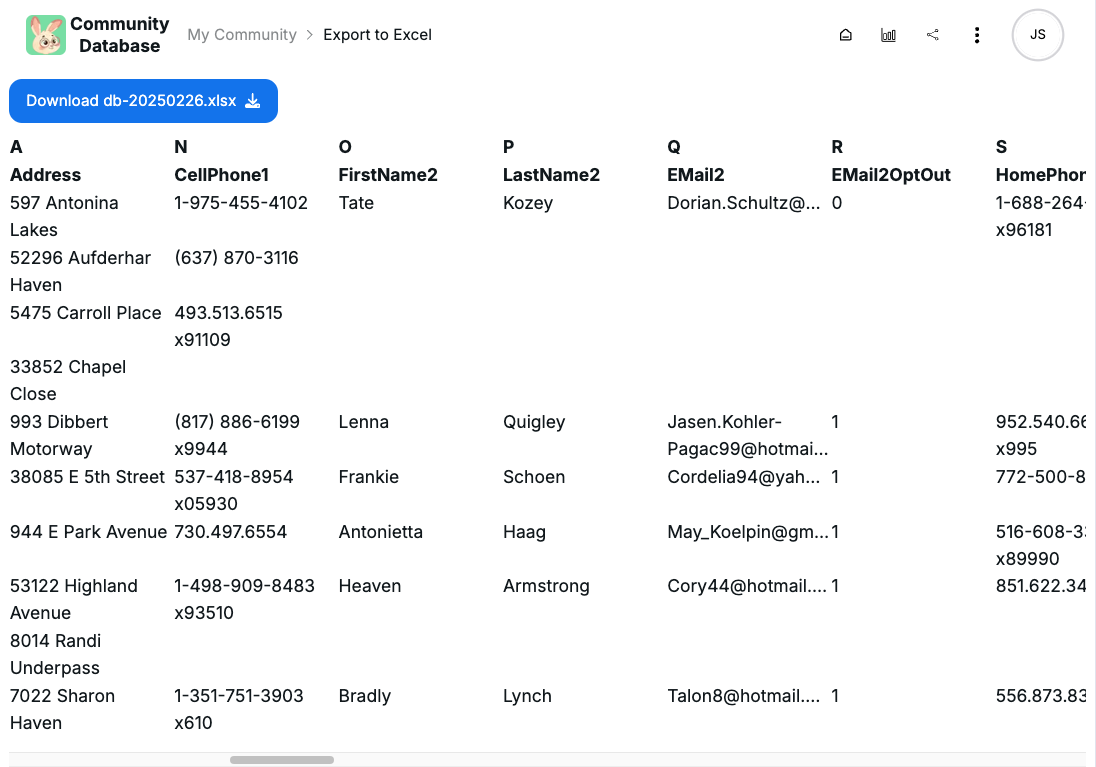
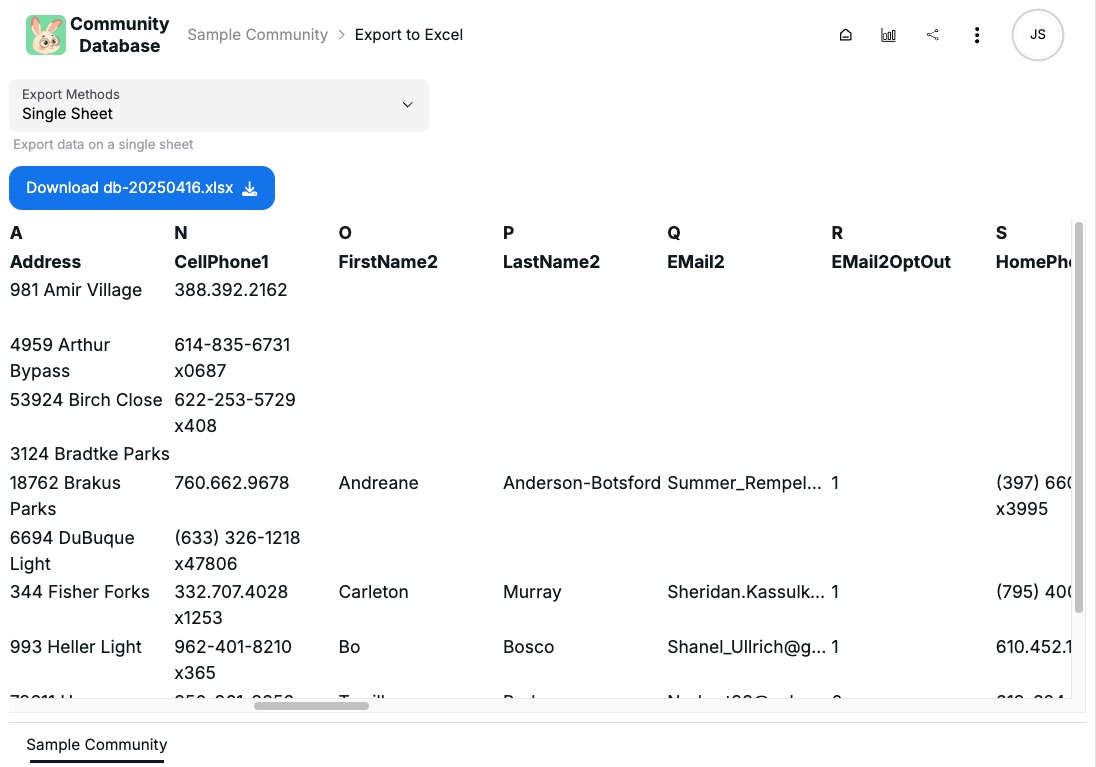
fix: update screenshots

diff --git a/cypress/e2e/landing-screenshot.cy.ts b/cypress/e2e/landing-screenshot.cy.ts
@@ -3,52 +3,15 @@ import path from 'path';
 // Default timeout
 const timeout = 10000;
 
-/** Take screenshot and save them into `/src/app/view/landing/images` directory */
-function takeScreenshot(name: string) {
-  // Wait a bit before taking screenshot, in case there is animation
-  // that needs to be transitioned through
-  // eslint-disable-next-line cypress/no-unnecessary-waiting
-  cy.wait(500);
-  cy.screenshot(name, {
-    overwrite: true,
-    capture: 'viewport',
-    onAfterScreenshot: ($el, props) => {
-      cy.readFile(props.path, 'binary').then((content) => {
-        const imageName = props.path.split('/').pop();
-        if (props.size && imageName) {
-          const destFn = path.join(
-            'src',
-            'app',
-            'view',
-            'landing',
-            'images',
-            imageName
-          );
-          cy.writeFile(destFn, content, 'binary');
-        }
-      });
-    },
-  });
-}
-
-describe('take screenshots for landing screen', () => {
-  before(() => {
-    // Seed data if database doesn't exist
-    // cy.task('mongodb:seed-random', 10);
-  });
-
-  beforeEach(() => {
-    // Determine the dimension of the viewport and screenshot
-    cy.viewport(1000, 700);
-    cy.login();
-  });
-
-  it('takes screenshots', { scrollBehavior: false }, () => {
+class ScreenShot {
+  propertyList() {
     cy.navigatePropertyList();
     cy.findByLabelText('Loading').should('exist');
     cy.findByLabelText('Loading').should('not.exist');
-    takeScreenshot('property-list');
+    this.takeScreenshot('property-list');
+  }
 
+  propertyDetail() {
     cy.findByLabelText('Property Table')
       .find('tbody')
       .findAllByRole('row')
@@ -63,19 +26,26 @@ describe('take screenshots for landing screen', () => {
 
     // Wait for property detail page
     cy.findByLabelText('Membership Info For Year', { timeout });
-    takeScreenshot('property-detail');
+    this.takeScreenshot('property-detail');
+  }
 
+  membershipEditor() {
     cy.clickHeaderMoreMenu();
     cy.clickRoleMenuItem('Edit Membership Detail');
     cy.findByRole('dialog').contains('Membership Detail');
-    takeScreenshot('membership-editor');
+    this.takeScreenshot('membership-editor');
     cy.clickButton('Cancel');
+  }
 
-    // cy.clickButton('Edit Member Details');
-    // cy.findByRole('dialog').contains('Edit Member Details');
-    // takeScreenshot('occupant-editor');
-    // cy.clickButton('Cancel');
+  occupantEditor() {
+    cy.clickHeaderMoreMenu();
+    cy.clickRoleMenuItem('Edit Member Details');
+    cy.findByRole('dialog').contains('Membership Contact Information');
+    this.takeScreenshot('occupant-editor');
+    cy.clickButton('Cancel');
+  }
 
+  dashboard() {
     cy.clickHeaderMoreMenu();
     cy.clickRoleMenuItem('Dashboard');
     // Wait for graphs to be loaded
@@ -84,12 +54,77 @@ describe('take screenshots for landing screen', () => {
       3
     );
     cy.scrollTo(0, 370);
-    takeScreenshot('dashboard');
+    this.takeScreenshot('dashboard');
+  }
 
+  exportXlsx() {
     cy.clickHeaderMoreMenu();
     cy.clickRoleMenuItem('Export to Excel');
-    cy.findByText('Download', { timeout });
+    // Wait for table to be loaded
+    cy.get('table[data-testid="export-xlsx"]', { timeout }).should('exist');
+    cy.clickButton('Export Methods');
+    cy.findByRole('option', { name: 'Single Sheet' }).click({ force: true });
     cy.get('table').parent().scrollTo(1950, 0);
-    takeScreenshot('export-to-xlsx');
+    this.takeScreenshot('export-to-xlsx');
+  }
+
+  /**
+   * Take screenshot and save them into `/src/app/view/landing/images` directory
+   *
+   * @param name Screenshot file name
+   */
+  private takeScreenshot(name: string) {
+    // Wait a bit before taking screenshot, in case there is animation
+    // that needs to be transitioned through
+    // eslint-disable-next-line cypress/no-unnecessary-waiting
+    cy.wait(500);
+    cy.screenshot(name, {
+      overwrite: true,
+      capture: 'viewport',
+      onAfterScreenshot: ($el, props) => {
+        cy.readFile(props.path, 'binary').then((content) => {
+          const imageName = props.path.split('/').pop();
+          if (props.size && imageName) {
+            const destFn = path.join(
+              'src',
+              'app',
+              'view',
+              'landing',
+              'images',
+              imageName
+            );
+            cy.writeFile(destFn, content, 'binary');
+          }
+        });
+      },
+    });
+  }
+}
+
+const screenShot = new ScreenShot();
+
+describe('take screenshots for landing screen', () => {
+  before(() => {
+    // Seed data if database doesn't exist
+    // cy.task('mongodb:seed-random', 10);
+  });
+
+  beforeEach(() => {
+    // Determine the dimension of the viewport and screenshot
+    cy.viewport(1000, 700);
+    cy.login();
+  });
+
+  it('takes screenshots', { scrollBehavior: false }, () => {
+    screenShot.propertyList();
+
+    screenShot.propertyDetail();
+    // This assumes we are in propertyDetail page
+    screenShot.membershipEditor();
+    // This assumes we are in propertyDetail page
+    screenShot.occupantEditor();
+
+    screenShot.dashboard();
+    screenShot.exportXlsx();
   });
 });

diff --git a/src/app/view/landing/getting-started/index.tsx b/src/app/view/landing/getting-started/index.tsx
@@ -6,6 +6,7 @@ import React from 'react';
 import DashboardImg from '../images/dashboard.png';
 import ExportToXlsxImg from '../images/export-to-xlsx.png';
 import MembershipEditorImg from '../images/membership-editor.png';
+import occupantEditorImg from '../images/occupant-editor.png';
 import PropertyDetailImg from '../images/property-detail.png';
 import propertyListImg from '../images/property-list.png';
 import { Slide } from './slide';
@@ -40,6 +41,11 @@ export const GettingStarted: React.FC<Props> = ({ className }) => {
           alt="membership-editor"
           src={MembershipEditorImg}
           caption="Keep record of event attendance"
+        />
+        <Slide
+          alt="occupant-editor"
+          src={occupantEditorImg}
+          caption="Keep record of member contact information"
         />
         <Slide
           alt="dashboard"

diff --git a/src/app/community/[communityId]/common/xlsx-view/xlsx-sheet-view.tsx b/src/app/community/[communityId]/common/xlsx-view/xlsx-sheet-view.tsx
@@ -99,7 +99,7 @@ export function XlsxSheetView<T>({
       ref={tableContainerRef}
       className={cn(className, 'flex-grow overflow-auto relative')}
     >
-      <table>
+      <table data-testid="export-xlsx">
         <thead className="grid sticky top-0 bg-background z-10">
           {table.getHeaderGroups().map((headerGroup) => (
             <tr key={headerGroup.id} className="flex w-full">

diff --git a/prisma/mongo-seeder.ts b/prisma/mongo-seeder.ts
@@ -27,7 +27,7 @@ export class MongoSeeder {
   static fromRandom(count = 100) {
     // Randomly create a workbook containing address with membership info
     const seedJson = seedCommunityData(count);
-    const wsHelper = WorksheetHelper.fromJson(seedJson, 'Membership');
+    const wsHelper = WorksheetHelper.fromJson(seedJson, 'Sample Community');
     return new MongoSeeder(wsHelper.wb);
   }
 
